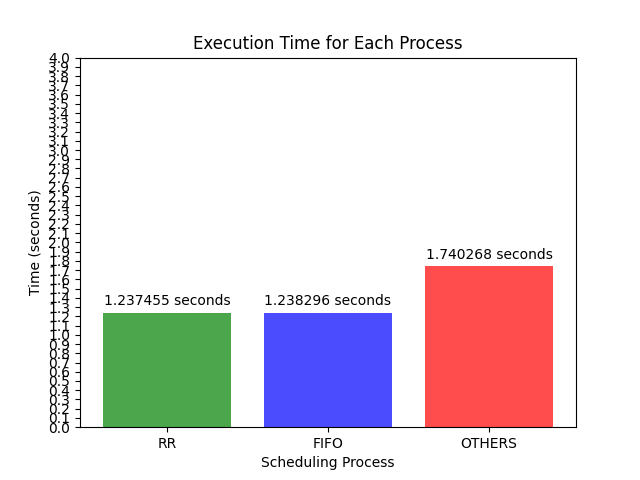
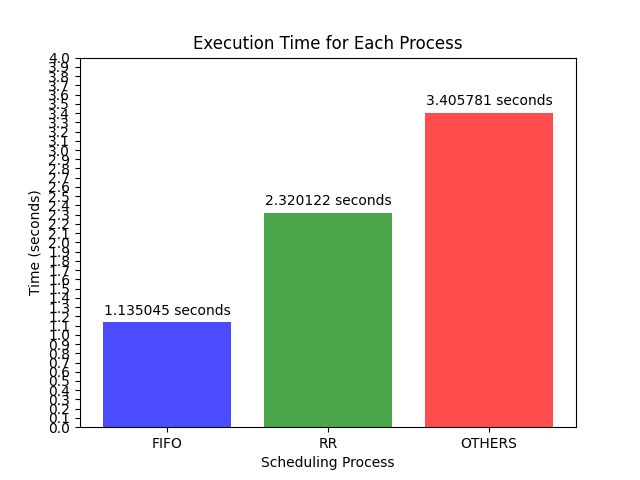
Set the number of processor to 1

Changed region(s): [[0.4062, 0.4062, 0.625, 0.9375], [0.6562, 0.1875, 0.875, 0.5625], [0.1562, 0.5938, 0.375, 0.9375]]

diff --git a/OS Assignment 2/Question 2/1.c b/OS Assignment 2/Question 2/1.c
@@ -38,7 +38,7 @@ int main ()
             param.sched_priority = 0;
             policies[SCHED_OTHER] = SCHED_OTHER;
             
-            int check_sched_set = sched_setscheduler(0, SCHED_OTHER, &param);
+            int check_sched_set = sched_setscheduler(getpid(), SCHED_OTHER, &param);
             if (check_sched_set == -1){
                 perror("sched_scheduler error in process 1\n");
                 exit(1);
@@ -78,7 +78,7 @@ int main ()
                 param.sched_priority = 1;
                 policies[SCHED_RR] = SCHED_RR;
 
-                int check_sched_set = sched_setscheduler(0, SCHED_RR, &param);
+                int check_sched_set = sched_setscheduler(getpid(), SCHED_RR, &param);
                 if (check_sched_set == -1){
                     perror("sched_scheduler error in process 2\n");
                     exit(1);
@@ -117,7 +117,7 @@ int main ()
                     param.sched_priority = 1;
     
                     policies[SCHED_FIFO] = SCHED_FIFO;
-                    int check_sched_set = sched_setscheduler(0, SCHED_FIFO, &param);
+                    int check_sched_set = sched_setscheduler(getpid(), SCHED_FIFO, &param);
                     if (check_sched_set == -1){
                         perror("sched_scheduler error in process 3\n");
                         exit(1);
